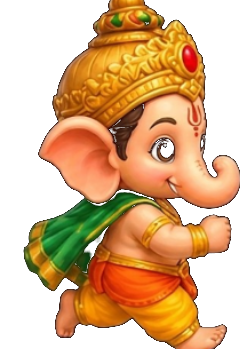
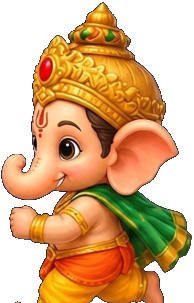
Add authentic Bal Ganesha directional running sprites: Move Right, Move Left, and Move Up (Back View)

diff --git a/index.html b/index.html
@@ -1340,12 +1340,14 @@
       itemModak: new Image(),
       itemLaddu: new Image(),
       itemHibiscus: new Image(),
-      itemLotus: new Image()
+      itemLotus: new Image(),
+      ganeshaUp: new Image()
     };
 
     ASSETS.ganeshaIdle.src = 'assets/ganesha_idle.png';
     ASSETS.ganeshaLeft.src = 'assets/ganesha_left.png';
     ASSETS.ganeshaRight.src = 'assets/ganesha_right.png';
+    ASSETS.ganeshaUp.src = 'assets/ganesha_up.png';
     ASSETS.mushakCatcher.src = 'assets/mushak_catcher.png';
     ASSETS.mushakRun.src = 'assets/mushak_run.png';
     ASSETS.mushakLaddoo.src = 'assets/mushak_laddoo.png';
@@ -2468,8 +2470,10 @@
             sprite = ASSETS.ganeshaLeft;
           } else if (isMovingRight) {
             sprite = ASSETS.ganeshaRight;
-          } else {
+          } else if (playerReaction === 'happy') {
             sprite = ASSETS.ganeshaIdle;
+          } else {
+            sprite = (ASSETS.ganeshaUp && ASSETS.ganeshaUp.complete && ASSETS.ganeshaUp.naturalWidth > 0) ? ASSETS.ganeshaUp : ASSETS.ganeshaIdle;
           }
         } else {
           // Mushak as catcher
